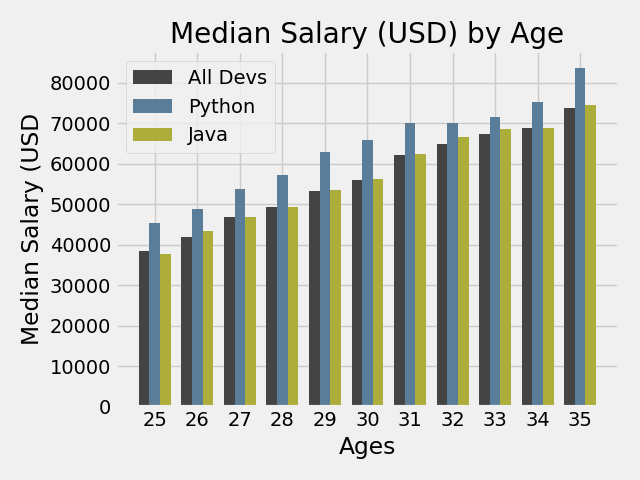
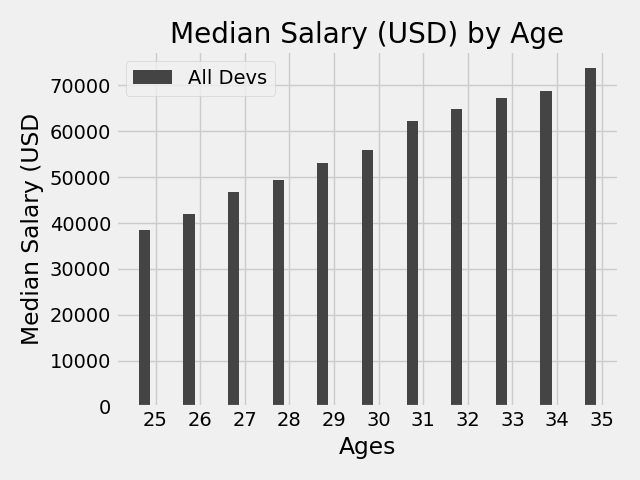
Initial commit

diff --git a/machine_learning_k_nearestneig.py b/machine_learning_k_nearestneig.py
@@ -1,0 +1,58 @@
+import numpy as np
+import pandas as pd
+from matplotlib import pyplot as plt
+import seaborn as sns
+from sklearn import datasets
+
+
+data=datasets.load_wine(as_frame=True)
+print(data)
+
+X=data.data
+y=data.target
+names = data.target_names
+
+print(names)
+
+# creating data frame
+df=pd.DataFrame(X,columns=data.feature_names)
+df['wine class'] = data.target
+df['wine class'] = df['wine class'].replace({0:'class 0',1:'class 1',2:'class 2'})
+
+# Alternatively
+# df['wine class'] = df['wine class'].replace([0,1,2],['class 0','class 1','class 2'])
+print(df.groupby('wine class').size())
+#visualizing the distribution of data
+sns.pairplot(df,hue='wine class', palette="Set2")
+# plt.show()
+
+#visualize if we have any null value for imputation purpose
+# print(df.isnull().sum())
+
+# Segregating Data into Training and Test data
+from sklearn.model_selection import train_test_split
+X_train, X_test, y_train, y_test = train_test_split(X, y, test_size=0.30, random_state=1)
+
+# creating the KN classifier/ instance of KNN Model
+from sklearn.neighbors import KNeighborsClassifier
+import math # setting the K value = 7.34 round it 7
+print(math.sqrt(len(y_test)))
+
+# Creating KNN classifier
+knn = KNeighborsClassifier(n_neighbors=7)
+knn.fit(X_train, y_train)
+pred= knn.predict(X_test)
+
+# Visualizing the accuracy
+from sklearn.metrics import accuracy_score
+print(accuracy_score(y_test,pred))
+
+# Our accuracy is so less =0.6481 because of varying data; we use a standard scaler to improve that
+from sklearn.preprocessing import StandardScaler
+scaler = StandardScaler()
+X_train_scaled = scaler.fit_transform(X_train)
+X_test_scaled = scaler.transform(X_test)
+knn1=KNeighborsClassifier(n_neighbors=7, metric="euclidean")
+knn1.fit(X_train_scaled,y_train)
+pred1=knn1.predict(X_test_scaled)
+print(accuracy_score(y_test,pred1))

diff --git a/matplotlib_simple_Plots.py b/matplotlib_simple_Plots.py
@@ -1,0 +1,39 @@
+# Developers Data
+import numpy as np
+from matplotlib import pyplot as plt
+plt.style.use('fivethirtyeight')
+# plt.xkcd()
+
+ages_x = [25,26,27,28,29,30,31,32,33,34,35]
+x_index = np.arange(len(ages_x))
+width = 0.25
+
+
+dev_y = [38496,42000,46752,49320,53200,
+         56000,62316,64928,67317,68748,73752]
+plt.bar(x_index-width,dev_y, width=width, color='#444444', linestyle='--',  label ='All Devs')
+
+py_dev_y=[45372,48876,53850,57287,63016,
+          65998,70003,70000,71496,75370,83640]
+plt.bar(x_index,py_dev_y,width=width, color ="#008fd5", label ='Python')
+
+js_dev_y =[37810,43515,46823,49293,53437,
+           56373,62375,66674,68745,68746,74583]
+plt.bar(x_index+width,js_dev_y, width=width, color ='#e5ae38', label ='Javascript')
+
+plt.legend()
+plt.xticks(ticks=x_index,labels=ages_x)
+
+plt.xlabel('Ages')
+plt.ylabel('Median Salary (USD')
+plt.title('Median Salary (USD) by Age')
+
+
+
+
+plt.tight_layout()
+
+# plt.savefig('plot.png')
+
+plt.show()
+

diff --git a/hierarchical_inheritance.py b/hierarchical_inheritance.py
@@ -1,0 +1,34 @@
+class Human:
+    def __init__(self,name,age):
+        self.name = name
+        self.age = age
+    def showDetails(self):
+        print(f'Hi, I am {self.name} and I am {self.age} years old')
+    def eat(self):
+        print("I can eat")
+
+class Male(Human):
+    def __init__(self,m_name,age, location):
+        Human.__init__(self,m_name,age)
+        self.location = location
+    def sleep(self):
+        print("I can sleep whole day")
+class Female(Human):
+    def __init__(self,f_name,age,can_dance):
+        super().__init__(f_name,age)
+        self.can_dance = can_dance
+    def showDetails(self):
+        Human.showDetails(self)
+        print(f'know_dancing: {self.can_dance}')
+
+    def work(self):
+        print("I can code")
+
+female_1 = Female("Jiya", 30,True)
+female_1.showDetails()
+print(female_1.can_dance)
+# male_1 =Male("Aakash", 20, "Mumbai")
+# print(male_1.location)
+# # print(Male.mro())
+
+

diff --git a/Matplotlib.py b/Matplotlib.py
@@ -43,11 +43,11 @@ ages_x=[25,26,27,28,29,30,31,32,33,34,35]
 dev_y=[38496,42000,46752,49320,53200,56000,62316,64928,67317,68748,73752]
 plt.bar(x_indexes-width,dev_y,width= width, color='#444444',linestyle='--', label ="All Devs")
 
-py_dev_y=[45372,48876,53850,57287,63016,65998,70003,70000,71496,75370,83640]
-plt.bar(x_indexes,py_dev_y,width= width, color='#5a7d9a',linewidth=3, label ='Python')
-
-js_dev_y =[37810,43515,46823,49293,53437,56373,62375,66674,68745,68746,74583]
-plt.bar(x_indexes+width,js_dev_y,width= width,color='#adad3b',linewidth=3, label ='Java')
+# py_dev_y=[45372,48876,53850,57287,63016,65998,70003,70000,71496,75370,83640]
+# plt.bar(x_indexes,py_dev_y,width= width, color='#5a7d9a',linewidth=3, label ='Python')
+#
+# js_dev_y =[37810,43515,46823,49293,53437,56373,62375,66674,68745,68746,74583]
+# plt.bar(x_indexes+width,js_dev_y,width= width,color='#adad3b',linewidth=3, label ='Java')
 
 
 plt.xlabel("Ages")

diff --git a/multiplie_inheritnace.py b/multiplie_inheritnace.py
@@ -1,0 +1,34 @@
+class Human:
+    def __init__(self,num_heart):
+        self.num_eyes = 2
+        self.num_noses = 1
+        self.num_heart = num_heart
+
+    def eat(self):
+        print("I can eat")
+    def work(self):
+        print("I can work")
+
+class Male:
+    def __init__(self, name):
+        self.name = name
+    def flirt(self):
+       print("I can flirt")
+    def work(self):
+       print("I can code")
+
+class Boy(Human,Male):
+    def __init__(self, name,heart, language):
+       Human.__init__(self,heart)
+       Male.__init__(self, name)
+       self.language = language
+    def work(self):
+       print("I can test")
+    def display(self):
+        print(f'Hi, I am {self.name}, and I have work on {self.language}.')
+
+boy_1 = Boy("Rahul",1, "Python")
+print(boy_1.num_noses)
+print(boy_1.num_heart)
+print(boy_1.language)
+boy_1.display()

diff --git a/matplotlib_hbar.py b/matplotlib_hbar.py
@@ -1,0 +1,32 @@
+import csv
+import numpy as np
+from matplotlib import pyplot as plt
+from collections import Counter
+
+plt.style.use('fivethirtyeight')
+
+# importing data using the standard library
+with open("/Users/martinjames/Documents/python_projects/matplotlib projects/data (5).csv") as csv_file:
+    csv_reader = csv.DictReader(csv_file)
+    language_counter = Counter()
+
+    for row in csv_reader:
+        language_counter.update(row['LanguagesWorkedWith'].split(';'))
+
+languages = []
+popularity = []
+
+for item in language_counter.most_common(15):
+    languages.append(item[0])
+    popularity.append(item[1])
+languages.reverse()
+popularity.reverse()
+plt.barh(languages, popularity)
+# plt.ylabel("Programming Languages")
+plt.xlabel("Number of People Who Use")
+plt.title("Most Popular Languages")
+
+plt.tight_layout()
+plt.show()
+
+

diff --git a/multilevel_inheritance.py b/multilevel_inheritance.py
@@ -1,0 +1,31 @@
+class Human:
+    can_breath = True
+    def __init__(self, num_heart):
+        print("calling init from Human class")
+        self.eyes = 2
+        self.heart = num_heart
+    def eat(self):
+        print("I can eat")
+    def work(self):
+        print("I can work")
+class Male(Human):
+    def __init__(self, name):
+        self.name =name
+    def sleep(self):
+        print("I can sleep the whole day")
+class Boy(Male):
+    def __init__(self, heart, name, can_dance):
+        Human.__init__(self,heart)
+        Male.__init__(self,name)
+        self.know_dancing = can_dance
+    def work(self):
+        # Human.work(self)
+        super().work()
+        print("I can code")
+
+boy_1 = Boy(1,'Rahul', True)
+print(boy_1.name)
+print(boy_1.know_dancing)
+print(boy_1.can_breath)
+print(Boy.mro())
+

diff --git a/file_handling.py b/file_handling.py
@@ -1,0 +1,24 @@
+# f1 =open("file_1.txt","w+")
+# print(f1.tell())
+# f1.write("Hi welcome")
+# print(f1.tell())
+# f1.write("This is python course")
+# print(f1.tell())
+# f1.seek(0)
+# print(f1.tell())
+# data=f1.read()
+# print(data)
+# print(f1.tell())
+# f1.close()
+
+f1=open("plt.png", 'rb')
+f2=open("plt2.jpg", 'wb')
+for i in f1:
+    f2.write(i)
+
+print(f1.read())
+# print(f1.tell())
+# f1.seek(0)
+# # f1.write("Hello student")
+# print(f1.read())
+# f1.write("Jenny's lectures")

diff --git a/machine_learning_classification.py b/machine_learning_classification.py
@@ -1,0 +1,5 @@
+import numpy as np
+x = np.array([[0,0],[0,1],[1,0],[1,1]])
+y = np.array([0,1,1,0])
+print(x)
+print(y)
